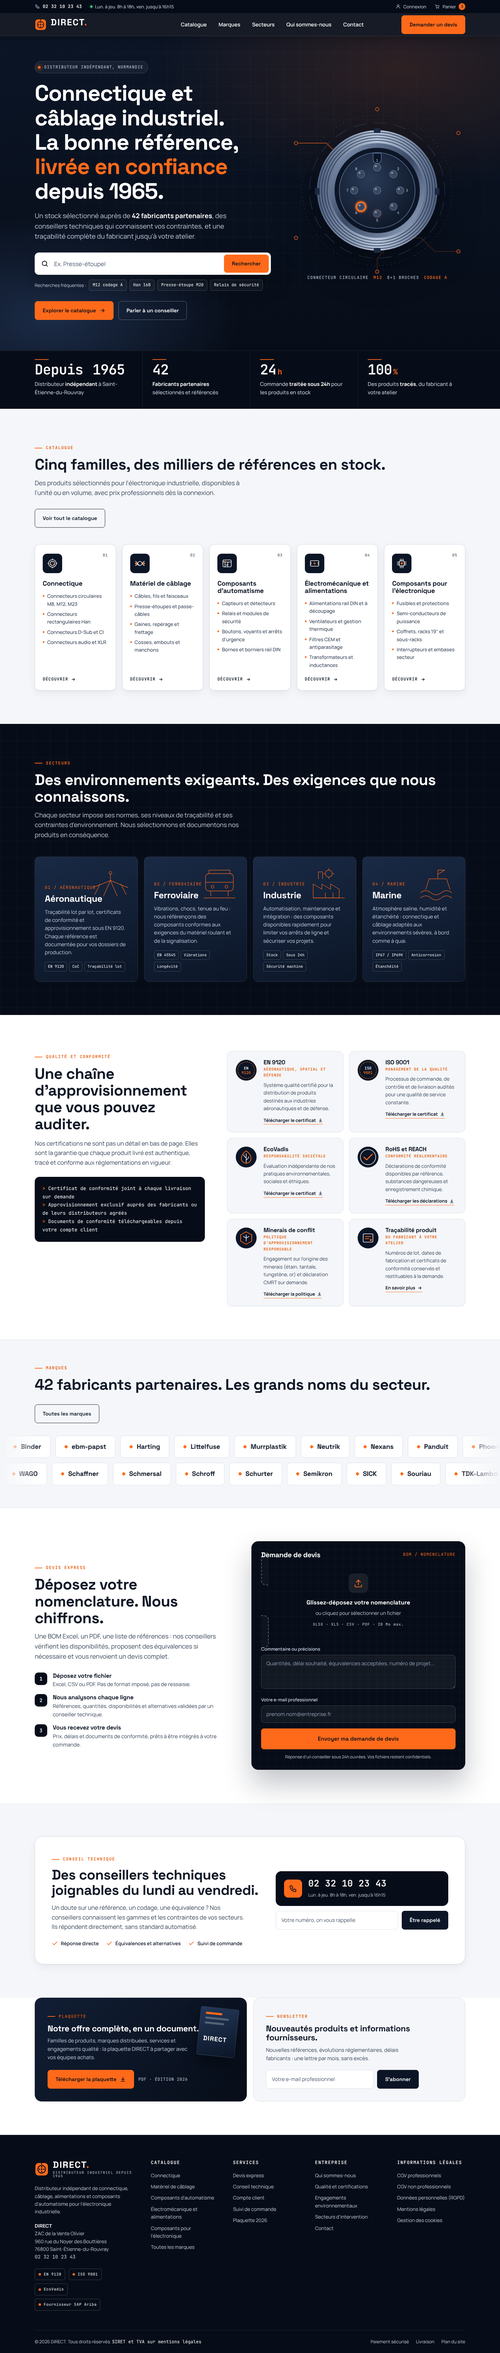
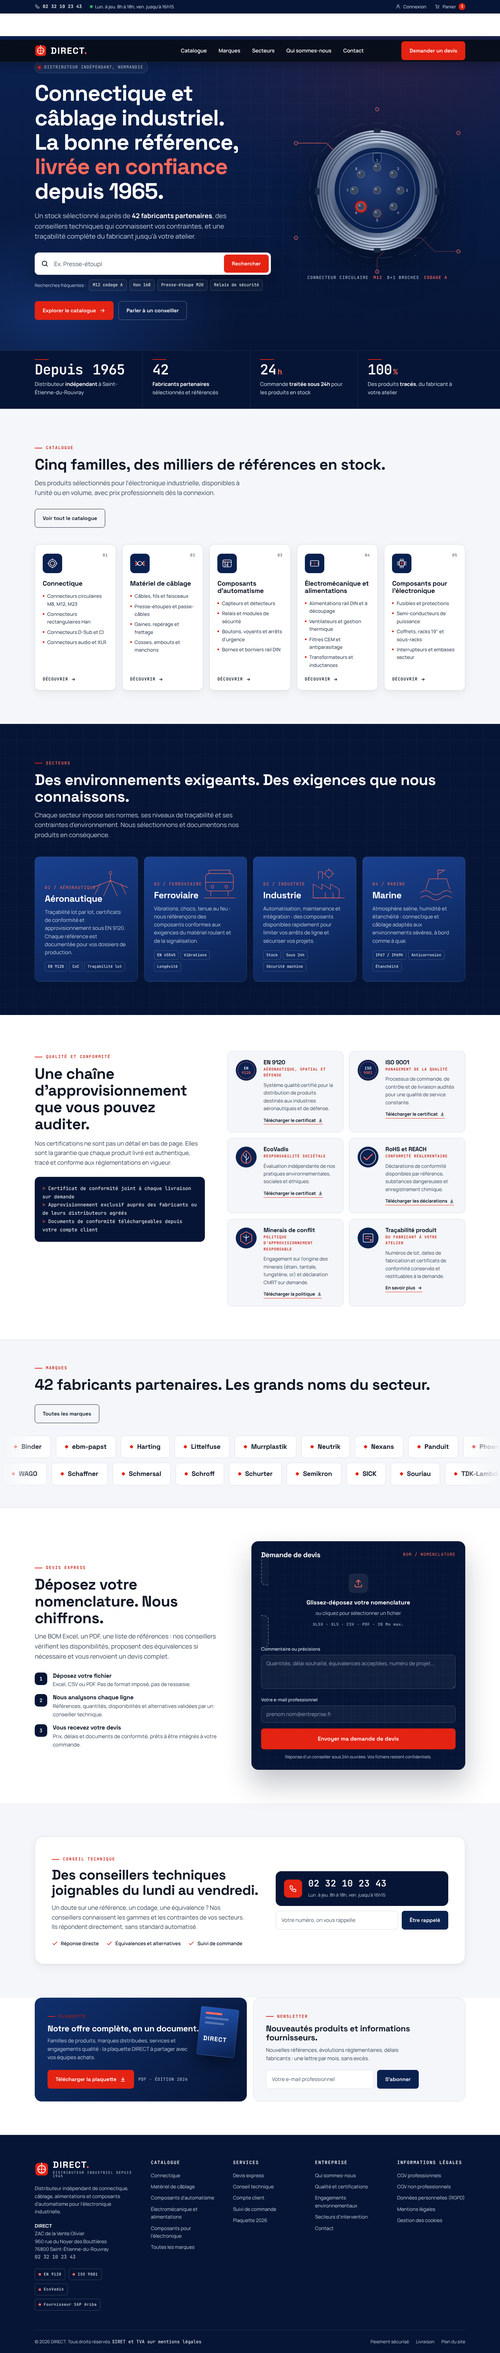
Palette alignée sur direct.fr : bleu institutionnel et rouge signal
Toutes les couleurs de marque sont regroupées dans le bloc de variables
CSS en tête de fichier, avec une variante de rouge plus claire pour les
textes sur fond sombre. Logo et sceaux SVG mis à jour.

Claude-Session: https://claude.ai/code/session_01CTckKYquxrzJf31rkvauVz

diff --git a/index.html b/index.html
@@ -14,15 +14,18 @@
 <style>
 /* =========================================================
    1. DESIGN TOKENS
-   Univers "industrie de précision" : bleu nuit + accent orange signal.
+   Univers "industrie de précision", palette alignée sur direct.fr :
+   bleu institutionnel profond + rouge signal pour les CTA.
+   Pour caler les codes exacts de la charte, modifier uniquement ce bloc.
    Tous les textes respectent un contraste AA minimum (aucun gris pâle).
    ========================================================= */
 :root {
-  --navy-950: #070D18;
-  --navy-900: #0B1526;
-  --navy-800: #111E34;
-  --navy-700: #1A2A45;
-  --navy-600: #24385A;
+  /* Bleus de marque (du plus sombre au plus clair) */
+  --navy-950: #061535;
+  --navy-900: #0A2150;
+  --navy-800: #10306E;
+  --navy-700: #1A4190;
+  --navy-600: #2457B8;
   --line-dark: rgba(255,255,255,0.10);
 
   --paper: #F4F6F9;
@@ -34,10 +37,13 @@
   --on-dark: #FFFFFF;      /* texte principal sur fond sombre */
   --on-dark-2: #C7D2E2;    /* texte secondaire sur fond sombre, contraste 11:1 */
 
-  --accent: #FF6A1A;       /* orange signal */
-  --accent-strong: #E85600;
-  --accent-soft: rgba(255,106,26,0.14);
-  --accent-glow: rgba(255,106,26,0.45);
+  /* Rouge signal : fonds de boutons et détails */
+  --accent: #E42313;
+  --accent-strong: #C41A0C;       /* rouge en texte sur fond clair (contraste 6.6:1) */
+  --accent-text-dark: #FF6A5C;    /* rouge en texte ou trait fin sur fond sombre (contraste 6:1) */
+  --accent-soft: rgba(228,35,19,0.12);
+  --accent-glow: rgba(228,35,19,0.42);
+  --on-accent: #FFFFFF;           /* texte sur fond rouge */
 
   --font-display: "Space Grotesk", "Manrope", system-ui, sans-serif;
   --font-body: "Manrope", system-ui, -apple-system, sans-serif;
@@ -85,7 +91,7 @@ svg { display: block; }
   color: var(--accent-strong);
 }
 .eyebrow::before { content: ""; width: 22px; height: 2px; background: var(--accent); }
-.on-dark .eyebrow { color: var(--accent); }
+.on-dark .eyebrow { color: var(--accent-text-dark); }
 
 .section-title { font-size: clamp(30px, 4vw, 44px); font-weight: 700; margin-top: 14px; }
 .section-lead { font-size: 18px; color: var(--ink-2); margin-top: 14px; max-width: 640px; }
@@ -102,8 +108,8 @@ svg { display: block; }
   white-space: nowrap;
 }
 .btn:active { transform: translateY(1px) scale(.99); }
-.btn-primary { background: var(--accent); color: var(--navy-950); border-color: var(--accent); }
-.btn-primary:hover { background: #FF7D38; box-shadow: 0 10px 28px var(--accent-glow); transform: translateY(-2px); }
+.btn-primary { background: var(--accent); color: var(--on-accent); border-color: var(--accent); }
+.btn-primary:hover { background: #F0311F; box-shadow: 0 10px 28px var(--accent-glow); transform: translateY(-2px); }
 .btn-outline-dark { background: transparent; color: var(--white); border-color: rgba(255,255,255,0.35); }
 .btn-outline-dark:hover { border-color: var(--white); background: rgba(255,255,255,0.08); transform: translateY(-2px); }
 .btn-outline { background: transparent; color: var(--ink); border-color: var(--ink); }
@@ -136,7 +142,7 @@ svg { display: block; }
 .topbar a:hover { color: var(--white); }
 .topbar .phone { font-family: var(--font-mono); font-weight: 600; color: var(--white); letter-spacing: .02em; }
 .topbar .dot { width: 6px; height: 6px; border-radius: 50%; background: #3DDC84; box-shadow: 0 0 0 3px rgba(61,220,132,0.2); }
-.topbar .cart-count { font-family: var(--font-mono); font-size: 11px; background: var(--accent); color: var(--navy-950); border-radius: 999px; padding: 1px 6px; font-weight: 600; }
+.topbar .cart-count { font-family: var(--font-mono); font-size: 11px; background: var(--accent); color: var(--on-accent); border-radius: 999px; padding: 1px 6px; font-weight: 600; }
 .topbar svg { width: 15px; height: 15px; stroke: currentColor; fill: none; stroke-width: 1.8; stroke-linecap: round; stroke-linejoin: round; }
 
 /* =========================================================
@@ -159,7 +165,7 @@ svg { display: block; }
 .header.is-compact .logo-mark { width: 34px; height: 34px; }
 .logo-text { display: flex; flex-direction: column; line-height: 1; }
 .logo-word { font-family: var(--font-display); font-weight: 700; font-size: 26px; letter-spacing: 0.08em; }
-.logo-word span { color: var(--accent); }
+.logo-word span { color: var(--accent-text-dark); }
 .logo-tag { font-family: var(--font-mono); font-size: 10px; letter-spacing: .16em; text-transform: uppercase; color: var(--on-dark-2); margin-top: 5px; transition: opacity .2s, height .3s; }
 .header.is-compact .logo-tag { opacity: 0; height: 0; margin: 0; overflow: hidden; }
 
@@ -191,8 +197,8 @@ svg { display: block; }
    ========================================================= */
 .hero {
   position: relative; overflow: hidden;
-  background: radial-gradient(1200px 600px at 80% 10%, rgba(255,106,26,0.14), transparent 60%),
-              radial-gradient(900px 500px at 10% 90%, rgba(36,56,90,0.7), transparent 60%),
+  background: radial-gradient(1200px 600px at 80% 10%, rgba(228,35,19,0.12), transparent 60%),
+              radial-gradient(900px 500px at 10% 90%, rgba(36,87,184,0.38), transparent 60%),
               linear-gradient(180deg, var(--navy-900) 0%, var(--navy-950) 100%);
   color: var(--on-dark);
   min-height: calc(100vh - 122px);
@@ -211,10 +217,10 @@ svg { display: block; }
 .hero .container { position: relative; display: grid; grid-template-columns: 1.15fr .85fr; gap: 48px; align-items: center; padding: 72px 0 88px; }
 .hero-kicker { display: inline-flex; align-items: center; gap: 10px; padding: 7px 12px 7px 8px; border-radius: 999px; border: 1px solid rgba(255,255,255,0.18); background: rgba(255,255,255,0.05); font-family: var(--font-mono); font-size: 12px; letter-spacing: .08em; text-transform: uppercase; color: var(--on-dark-2); }
 .hero-kicker .pulse { width: 8px; height: 8px; border-radius: 50%; background: var(--accent); box-shadow: 0 0 0 0 var(--accent-glow); animation: pulse 2s infinite; }
-@keyframes pulse { 0% { box-shadow: 0 0 0 0 var(--accent-glow); } 70% { box-shadow: 0 0 0 10px rgba(255,106,26,0); } 100% { box-shadow: 0 0 0 0 rgba(255,106,26,0); } }
+@keyframes pulse { 0% { box-shadow: 0 0 0 0 var(--accent-glow); } 70% { box-shadow: 0 0 0 10px rgba(228,35,19,0); } 100% { box-shadow: 0 0 0 0 rgba(228,35,19,0); } }
 
 .hero h1 { font-size: clamp(36px, 5.2vw, 64px); font-weight: 700; margin-top: 22px; letter-spacing: -0.025em; }
-.hero h1 .accent { color: var(--accent); }
+.hero h1 .accent { color: var(--accent-text-dark); }
 .hero-sub { font-size: 19px; color: var(--on-dark-2); max-width: 580px; margin-top: 22px; line-height: 1.55; }
 .hero-sub strong { color: var(--white); font-weight: 700; }
 
@@ -233,7 +239,7 @@ svg { display: block; }
 .search-box button { padding: 13px 22px; }
 .search-hints { display: flex; flex-wrap: wrap; align-items: center; gap: 8px; margin-top: 14px; font-size: 13px; color: var(--on-dark-2); }
 .search-hints .chip { font-family: var(--font-mono); font-size: 12px; padding: 5px 10px; border: 1px solid rgba(255,255,255,0.2); border-radius: 6px; color: var(--white); background: rgba(255,255,255,0.04); transition: border-color .2s, background .2s; }
-.search-hints .chip:hover { border-color: var(--accent); background: var(--accent-soft); }
+.search-hints .chip:hover { border-color: var(--accent-text-dark); background: rgba(228,35,19,0.18); }
 
 .hero-ctas { display: flex; gap: 14px; margin-top: 30px; flex-wrap: wrap; }
 
@@ -245,7 +251,7 @@ svg { display: block; }
   font-family: var(--font-mono); font-size: 12px; letter-spacing: .1em; text-transform: uppercase; color: var(--on-dark-2);
   display: flex; gap: 14px; white-space: nowrap;
 }
-.hero-visual .caption b { color: var(--accent); font-weight: 600; }
+.hero-visual .caption b { color: var(--accent-text-dark); font-weight: 600; }
 
 /* Broches qui s'allument successivement */
 .pin { fill: #39475E; stroke: #6B7A94; stroke-width: 1.2; transition: fill .3s; }
@@ -263,12 +269,12 @@ svg { display: block; }
 .pin-glow[data-i="9"] { animation-delay: 1.75s; animation-duration: 8s; }
 
 /* Tracés de circuit qui se dessinent */
-.trace { fill: none; stroke: var(--accent); stroke-width: 1.6; stroke-linecap: round; stroke-linejoin: round; stroke-dasharray: 600; stroke-dashoffset: 600; animation: draw 6s var(--ease) infinite; opacity: .9; }
+.trace { fill: none; stroke: var(--accent-text-dark); stroke-width: 1.6; stroke-linecap: round; stroke-linejoin: round; stroke-dasharray: 600; stroke-dashoffset: 600; animation: draw 6s var(--ease) infinite; opacity: .9; }
 .trace[data-d="2"] { animation-delay: 1s; }
 .trace[data-d="3"] { animation-delay: 2s; }
 .trace[data-d="4"] { animation-delay: 3s; }
 @keyframes draw { 0% { stroke-dashoffset: 600; opacity: 0; } 15% { opacity: .9; } 55% { stroke-dashoffset: 0; opacity: .9; } 85% { stroke-dashoffset: 0; opacity: 0; } 100% { stroke-dashoffset: 600; opacity: 0; } }
-.trace-pad { fill: var(--navy-900); stroke: var(--accent); stroke-width: 1.5; }
+.trace-pad { fill: var(--navy-900); stroke: var(--accent-text-dark); stroke-width: 1.5; }
 .ring-rotate { transform-origin: 260px 260px; animation: spin 40s linear infinite; }
 @keyframes spin { to { transform: rotate(360deg); } }
 
@@ -280,7 +286,7 @@ svg { display: block; }
 .stat { padding: 34px 28px; border-left: 1px solid var(--line-dark); position: relative; }
 .stat:first-child { border-left: 0; padding-left: 0; }
 .stat-value { font-family: var(--font-mono); font-size: 40px; font-weight: 600; letter-spacing: -0.02em; color: var(--white); line-height: 1; display: flex; align-items: baseline; gap: 4px; }
-.stat-value .unit { font-size: 22px; color: var(--accent); font-weight: 600; }
+.stat-value .unit { font-size: 22px; color: var(--accent-text-dark); font-weight: 600; }
 .stat-label { font-size: 15px; color: var(--on-dark-2); margin-top: 10px; font-weight: 500; }
 .stat-label strong { color: var(--white); }
 .stat::after { content: ""; position: absolute; left: 28px; top: 24px; width: 0; height: 2px; background: var(--accent); transition: width 1.2s var(--ease) .2s; }
@@ -318,8 +324,8 @@ svg { display: block; }
 .family-icon svg { width: 32px; height: 32px; stroke: var(--white); fill: none; stroke-width: 1.6; stroke-linecap: round; stroke-linejoin: round; }
 .family-icon svg .fill { fill: var(--accent); stroke: none; }
 .family-card:hover .family-icon { background: var(--accent); transform: rotate(-4deg) scale(1.04); }
-.family-card:hover .family-icon svg { stroke: var(--navy-950); }
-.family-card:hover .family-icon svg .fill { fill: var(--navy-950); }
+.family-card:hover .family-icon svg { stroke: var(--white); }
+.family-card:hover .family-icon svg .fill { fill: var(--white); }
 .family-card h3 { font-size: 19px; margin-top: 20px; }
 .family-card ul { margin-top: 14px; display: flex; flex-direction: column; gap: 7px; flex: 1; }
 .family-card li { font-size: 14px; color: var(--ink-2); font-weight: 500; display: flex; gap: 8px; align-items: flex-start; }
@@ -342,11 +348,11 @@ svg { display: block; }
   border: 1px solid rgba(255,255,255,0.1); display: flex; flex-direction: column; justify-content: flex-end;
   transition: transform .4s var(--ease), border-color .4s, box-shadow .4s var(--ease);
 }
-.sector:hover { transform: translateY(-6px); border-color: rgba(255,106,26,0.6); box-shadow: 0 30px 60px rgba(0,0,0,0.4); }
+.sector:hover { transform: translateY(-6px); border-color: rgba(255,106,92,0.7); box-shadow: 0 30px 60px rgba(0,0,0,0.4); }
 .sector-art { position: absolute; top: 18px; right: 18px; width: 120px; height: 120px; opacity: .9; transition: transform .5s var(--ease); }
 .sector:hover .sector-art { transform: scale(1.08) rotate(-3deg); }
-.sector-art svg { width: 100%; height: 100%; stroke: var(--accent); fill: none; stroke-width: 1.4; stroke-linecap: round; stroke-linejoin: round; }
-.sector-num { font-family: var(--font-mono); font-size: 12px; color: var(--accent); letter-spacing: .12em; }
+.sector-art svg { width: 100%; height: 100%; stroke: var(--accent-text-dark); fill: none; stroke-width: 1.4; stroke-linecap: round; stroke-linejoin: round; }
+.sector-num { font-family: var(--font-mono); font-size: 12px; color: var(--accent-text-dark); letter-spacing: .12em; }
 .sector h3 { font-size: 26px; margin-top: 8px; }
 .sector p { color: var(--on-dark-2); font-size: 15px; margin-top: 12px; line-height: 1.55; }
 .sector-tags { display: flex; flex-wrap: wrap; gap: 6px; margin-top: 16px; }
@@ -361,7 +367,7 @@ svg { display: block; }
 .quality-layout { display: grid; grid-template-columns: 1fr 1.4fr; gap: 64px; align-items: start; margin-top: 8px; }
 .quality-intro p { font-size: 17px; color: var(--ink-2); margin-top: 18px; }
 .quality-intro .big { font-family: var(--font-mono); margin-top: 28px; padding: 22px; border-radius: var(--radius); background: var(--navy-950); color: var(--white); font-size: 14px; line-height: 1.7; }
-.quality-intro .big b { color: var(--accent); font-weight: 600; }
+.quality-intro .big b { color: var(--accent-text-dark); font-weight: 600; }
 .badge-grid { display: grid; grid-template-columns: repeat(2, 1fr); gap: 16px; }
 .badge {
   display: flex; gap: 18px; align-items: flex-start; padding: 22px; border-radius: var(--radius);
@@ -414,14 +420,14 @@ svg { display: block; }
 .quote-form > * { position: relative; }
 .quote-form-head { display: flex; justify-content: space-between; align-items: center; margin-bottom: 18px; }
 .quote-form-head h3 { font-size: 20px; }
-.quote-form-head .mono { font-size: 12px; color: var(--accent); letter-spacing: .1em; }
+.quote-form-head .mono { font-size: 12px; color: var(--accent-text-dark); letter-spacing: .1em; }
 .dropzone {
   border: 2px dashed rgba(255,255,255,0.3); border-radius: 14px; padding: 34px 20px; text-align: center;
   background: rgba(255,255,255,0.03); transition: border-color .25s, background .25s, transform .25s var(--ease); cursor: pointer;
 }
-.dropzone:hover, .dropzone.is-over { border-color: var(--accent); background: var(--accent-soft); transform: scale(1.01); }
+.dropzone:hover, .dropzone.is-over { border-color: var(--accent-text-dark); background: rgba(228,35,19,0.16); transform: scale(1.01); }
 .dropzone-icon { width: 56px; height: 56px; margin: 0 auto 14px; border-radius: 14px; background: rgba(255,255,255,0.08); display: grid; place-items: center; }
-.dropzone-icon svg { width: 28px; height: 28px; stroke: var(--accent); fill: none; stroke-width: 1.8; stroke-linecap: round; stroke-linejoin: round; }
+.dropzone-icon svg { width: 28px; height: 28px; stroke: var(--accent-text-dark); fill: none; stroke-width: 1.8; stroke-linecap: round; stroke-linejoin: round; }
 .dropzone strong { display: block; font-family: var(--font-display); font-size: 17px; }
 .dropzone span { display: block; font-size: 14px; color: var(--on-dark-2); margin-top: 6px; }
 .dropzone .formats { font-family: var(--font-mono); font-size: 11px; letter-spacing: .08em; color: var(--on-dark-2); margin-top: 12px; }
@@ -437,7 +443,7 @@ svg { display: block; }
   color: var(--white); padding: 12px 14px; font-size: 15px; outline: 0; transition: border-color .2s, box-shadow .2s; resize: vertical;
 }
 .field textarea::placeholder, .field input::placeholder { color: #94A3B8; opacity: 1; }
-.field textarea:focus, .field input:focus { border-color: var(--accent); box-shadow: 0 0 0 3px var(--accent-soft); }
+.field textarea:focus, .field input:focus { border-color: var(--accent-text-dark); box-shadow: 0 0 0 3px var(--accent-soft); }
 .quote-form .btn { width: 100%; margin-top: 16px; padding: 16px; font-size: 16px; }
 .quote-form .note { font-size: 12px; color: var(--on-dark-2); text-align: center; margin-top: 12px; }
 
@@ -452,7 +458,7 @@ svg { display: block; }
 .phone-big { display: flex; align-items: center; gap: 18px; padding: 22px 24px; border-radius: 16px; background: var(--navy-950); color: var(--white); transition: transform .3s var(--ease), box-shadow .3s var(--ease); }
 .phone-big:hover { transform: translateY(-3px); box-shadow: 0 20px 40px rgba(11,21,38,0.3); }
 .phone-big .ico { width: 52px; height: 52px; border-radius: 12px; background: var(--accent); display: grid; place-items: center; flex: none; }
-.phone-big .ico svg { width: 24px; height: 24px; stroke: var(--navy-950); fill: none; stroke-width: 2; stroke-linecap: round; stroke-linejoin: round; }
+.phone-big .ico svg { width: 24px; height: 24px; stroke: var(--white); fill: none; stroke-width: 2; stroke-linecap: round; stroke-linejoin: round; }
 .phone-big .num { font-family: var(--font-mono); font-size: 26px; font-weight: 600; letter-spacing: .02em; line-height: 1; }
 .phone-big .hrs { font-size: 13px; color: var(--on-dark-2); margin-top: 6px; }
 .callback { display: flex; gap: 10px; }
@@ -479,7 +485,7 @@ svg { display: block; }
 .doc-card .version { font-family: var(--font-mono); font-size: 12px; color: var(--on-dark-2); letter-spacing: .06em; }
 .brochure-art { position: absolute; right: 28px; top: 28px; width: 110px; height: 140px; border-radius: 6px; background: linear-gradient(160deg, var(--navy-600), var(--navy-900)); border: 1px solid rgba(255,255,255,0.15); transform: rotate(6deg); box-shadow: 0 20px 40px rgba(0,0,0,0.4); padding: 14px; }
 .brochure-art .l { height: 6px; border-radius: 3px; background: rgba(255,255,255,0.25); margin-bottom: 8px; }
-.brochure-art .l.a { width: 60%; background: var(--accent); }
+.brochure-art .l.a { width: 60%; background: var(--accent-text-dark); }
 .brochure-art .l.b { width: 85%; }
 .brochure-art .l.c { width: 70%; }
 .brochure-art .w { font-family: var(--font-display); font-weight: 700; font-size: 18px; letter-spacing: .08em; color: var(--white); margin-top: 28px; }
@@ -496,13 +502,13 @@ svg { display: block; }
 .footer h4 { font-size: 13px; letter-spacing: .12em; text-transform: uppercase; color: var(--white); font-family: var(--font-mono); font-weight: 600; margin-bottom: 18px; }
 .footer ul { display: grid; gap: 10px; }
 .footer a { transition: color .2s; }
-.footer a:hover { color: var(--accent); }
+.footer a:hover { color: var(--accent-text-dark); }
 .footer-brand p { margin-top: 18px; max-width: 320px; line-height: 1.6; }
 .footer-brand address { font-style: normal; margin-top: 18px; line-height: 1.6; }
 .footer-brand address strong { color: var(--white); }
 .footer-badges { display: flex; gap: 10px; margin-top: 22px; flex-wrap: wrap; }
 .footer-badges span { display: inline-flex; align-items: center; gap: 8px; font-family: var(--font-mono); font-size: 11px; letter-spacing: .06em; padding: 7px 10px; border: 1px solid rgba(255,255,255,0.22); border-radius: 6px; color: var(--white); }
-.footer-badges span i { width: 7px; height: 7px; border-radius: 50%; background: var(--accent); }
+.footer-badges span i { width: 7px; height: 7px; border-radius: 50%; background: var(--accent-text-dark); }
 .footer-bottom { margin-top: 56px; border-top: 1px solid var(--line-dark); padding: 22px 0; display: flex; justify-content: space-between; gap: 16px; flex-wrap: wrap; font-size: 13px; }
 .footer-bottom ul { display: flex; gap: 20px; flex-wrap: wrap; }
 .footer-bottom .mono { color: var(--white); }
@@ -619,14 +625,14 @@ svg { display: block; }
     <a class="logo" href="#" aria-label="DIRECT, accueil">
       <!-- Logo recréé : connecteur stylisé + wordmark -->
       <svg class="logo-mark" viewBox="0 0 40 40" aria-hidden="true">
-        <rect x="2" y="2" width="36" height="36" rx="9" fill="#FF6A1A"/>
-        <circle cx="20" cy="20" r="11" fill="none" stroke="#070D18" stroke-width="2.4"/>
-        <circle cx="20" cy="13.5" r="1.9" fill="#070D18"/>
-        <circle cx="26.5" cy="20" r="1.9" fill="#070D18"/>
-        <circle cx="20" cy="26.5" r="1.9" fill="#070D18"/>
-        <circle cx="13.5" cy="20" r="1.9" fill="#070D18"/>
-        <circle cx="20" cy="20" r="2.4" fill="#070D18"/>
-        <path d="M20 2v4" stroke="#070D18" stroke-width="2.4" stroke-linecap="round"/>
+        <rect x="2" y="2" width="36" height="36" rx="9" fill="#E42313"/>
+        <circle cx="20" cy="20" r="11" fill="none" stroke="#FFFFFF" stroke-width="2.4"/>
+        <circle cx="20" cy="13.5" r="1.9" fill="#FFFFFF"/>
+        <circle cx="26.5" cy="20" r="1.9" fill="#FFFFFF"/>
+        <circle cx="20" cy="26.5" r="1.9" fill="#FFFFFF"/>
+        <circle cx="13.5" cy="20" r="1.9" fill="#FFFFFF"/>
+        <circle cx="20" cy="20" r="2.4" fill="#FFFFFF"/>
+        <path d="M20 2v4" stroke="#FFFFFF" stroke-width="2.4" stroke-linecap="round"/>
       </svg>
       <span class="logo-text">
         <span class="logo-word">DIRECT<span>.</span></span>
@@ -707,8 +713,8 @@ svg { display: block; }
             <feMerge><feMergeNode in="b"/><feMergeNode in="SourceGraphic"/></feMerge>
           </filter>
           <radialGradient id="body" cx="40%" cy="35%" r="70%">
-            <stop offset="0%" stop-color="#2A3B58"/>
-            <stop offset="100%" stop-color="#0E1828"/>
+            <stop offset="0%" stop-color="#24407A"/>
+            <stop offset="100%" stop-color="#0A1E48"/>
           </radialGradient>
           <linearGradient id="ring" x1="0" y1="0" x2="1" y2="1">
             <stop offset="0%" stop-color="#8A9BB8"/>
@@ -758,11 +764,11 @@ svg { display: block; }
         </g>
         <!-- Bague -->
         <circle cx="260" cy="260" r="140" fill="url(#ring)"/>
-        <circle cx="260" cy="260" r="126" fill="#0B1526"/>
+        <circle cx="260" cy="260" r="126" fill="#0A2150"/>
         <!-- Face isolante -->
         <circle cx="260" cy="260" r="112" fill="url(#body)" stroke="#55678A" stroke-width="2"/>
         <!-- Détrompeur (codage A) -->
-        <path d="M248 150 h24 v18 a12 12 0 0 1 -24 0z" fill="#0B1526" stroke="#55678A" stroke-width="2"/>
+        <path d="M248 150 h24 v18 a12 12 0 0 1 -24 0z" fill="#0A2150" stroke="#55678A" stroke-width="2"/>
 
         <!-- Broches : 8 en couronne + 1 au centre -->
         <g>
@@ -987,7 +993,7 @@ svg { display: block; }
       <div class="badge-grid">
         <div class="badge reveal">
           <div class="badge-seal">
-            <svg viewBox="0 0 64 64"><circle cx="32" cy="32" r="30" fill="#0B1526"/><circle cx="32" cy="32" r="24" fill="none" stroke="#FF6A1A" stroke-width="1.5" stroke-dasharray="3 3"/><text x="32" y="30" text-anchor="middle" font-family="JetBrains Mono, monospace" font-size="11" font-weight="600" fill="#fff">EN</text><text x="32" y="43" text-anchor="middle" font-family="JetBrains Mono, monospace" font-size="11" font-weight="600" fill="#FF6A1A">9120</text></svg>
+            <svg viewBox="0 0 64 64"><circle cx="32" cy="32" r="30" fill="#0A2150"/><circle cx="32" cy="32" r="24" fill="none" stroke="#FF6A5C" stroke-width="1.5" stroke-dasharray="3 3"/><text x="32" y="30" text-anchor="middle" font-family="JetBrains Mono, monospace" font-size="11" font-weight="600" fill="#fff">EN</text><text x="32" y="43" text-anchor="middle" font-family="JetBrains Mono, monospace" font-size="11" font-weight="600" fill="#FF6A5C">9120</text></svg>
           </div>
           <div>
             <h3>EN 9120</h3>
@@ -998,7 +1004,7 @@ svg { display: block; }
         </div>
         <div class="badge reveal" data-delay="1">
           <div class="badge-seal">
-            <svg viewBox="0 0 64 64"><circle cx="32" cy="32" r="30" fill="#0B1526"/><circle cx="32" cy="32" r="24" fill="none" stroke="#FF6A1A" stroke-width="1.5" stroke-dasharray="3 3"/><text x="32" y="30" text-anchor="middle" font-family="JetBrains Mono, monospace" font-size="11" font-weight="600" fill="#fff">ISO</text><text x="32" y="43" text-anchor="middle" font-family="JetBrains Mono, monospace" font-size="11" font-weight="600" fill="#FF6A1A">9001</text></svg>
+            <svg viewBox="0 0 64 64"><circle cx="32" cy="32" r="30" fill="#0A2150"/><circle cx="32" cy="32" r="24" fill="none" stroke="#FF6A5C" stroke-width="1.5" stroke-dasharray="3 3"/><text x="32" y="30" text-anchor="middle" font-family="JetBrains Mono, monospace" font-size="11" font-weight="600" fill="#fff">ISO</text><text x="32" y="43" text-anchor="middle" font-family="JetBrains Mono, monospace" font-size="11" font-weight="600" fill="#FF6A5C">9001</text></svg>
           </div>
           <div>
             <h3>ISO 9001</h3>
@@ -1009,7 +1015,7 @@ svg { display: block; }
         </div>
         <div class="badge reveal" data-delay="2">
           <div class="badge-seal">
-            <svg viewBox="0 0 64 64"><circle cx="32" cy="32" r="30" fill="#0B1526"/><path d="M32 14c8 6 14 14 14 22a14 14 0 0 1-28 0c0-8 6-16 14-22z" fill="none" stroke="#FF6A1A" stroke-width="2"/><path d="M32 22v26M32 34c-4-2-7-5-7-9M32 40c4-2 7-5 7-9" stroke="#fff" stroke-width="1.6" fill="none" stroke-linecap="round"/></svg>
+            <svg viewBox="0 0 64 64"><circle cx="32" cy="32" r="30" fill="#0A2150"/><path d="M32 14c8 6 14 14 14 22a14 14 0 0 1-28 0c0-8 6-16 14-22z" fill="none" stroke="#FF6A5C" stroke-width="2"/><path d="M32 22v26M32 34c-4-2-7-5-7-9M32 40c4-2 7-5 7-9" stroke="#fff" stroke-width="1.6" fill="none" stroke-linecap="round"/></svg>
           </div>
           <div>
             <h3>EcoVadis</h3>
@@ -1020,7 +1026,7 @@ svg { display: block; }
         </div>
         <div class="badge reveal" data-delay="3">
           <div class="badge-seal">
-            <svg viewBox="0 0 64 64"><circle cx="32" cy="32" r="30" fill="#0B1526"/><path d="M20 32l8 8 16-16" fill="none" stroke="#FF6A1A" stroke-width="3" stroke-linecap="round" stroke-linejoin="round"/><circle cx="32" cy="32" r="22" fill="none" stroke="#fff" stroke-width="1.5"/></svg>
+            <svg viewBox="0 0 64 64"><circle cx="32" cy="32" r="30" fill="#0A2150"/><path d="M20 32l8 8 16-16" fill="none" stroke="#FF6A5C" stroke-width="3" stroke-linecap="round" stroke-linejoin="round"/><circle cx="32" cy="32" r="22" fill="none" stroke="#fff" stroke-width="1.5"/></svg>
           </div>
           <div>
             <h3>RoHS et REACH</h3>
@@ -1031,7 +1037,7 @@ svg { display: block; }
         </div>
         <div class="badge reveal" data-delay="4">
           <div class="badge-seal">
-            <svg viewBox="0 0 64 64"><circle cx="32" cy="32" r="30" fill="#0B1526"/><path d="M32 14l16 9v18l-16 9-16-9V23z" fill="none" stroke="#FF6A1A" stroke-width="2" stroke-linejoin="round"/><path d="M32 23v18M24 27.5l8 4.5 8-4.5" fill="none" stroke="#fff" stroke-width="1.6" stroke-linecap="round"/></svg>
+            <svg viewBox="0 0 64 64"><circle cx="32" cy="32" r="30" fill="#0A2150"/><path d="M32 14l16 9v18l-16 9-16-9V23z" fill="none" stroke="#FF6A5C" stroke-width="2" stroke-linejoin="round"/><path d="M32 23v18M24 27.5l8 4.5 8-4.5" fill="none" stroke="#fff" stroke-width="1.6" stroke-linecap="round"/></svg>
           </div>
           <div>
             <h3>Minerais de conflit</h3>
@@ -1042,7 +1048,7 @@ svg { display: block; }
         </div>
         <div class="badge reveal" data-delay="4">
           <div class="badge-seal">
-            <svg viewBox="0 0 64 64"><circle cx="32" cy="32" r="30" fill="#0B1526"/><rect x="18" y="20" width="28" height="24" rx="3" fill="none" stroke="#fff" stroke-width="1.6"/><path d="M24 28h16M24 34h10" stroke="#FF6A1A" stroke-width="2" stroke-linecap="round"/><circle cx="40" cy="38" r="3" fill="#FF6A1A"/></svg>
+            <svg viewBox="0 0 64 64"><circle cx="32" cy="32" r="30" fill="#0A2150"/><rect x="18" y="20" width="28" height="24" rx="3" fill="none" stroke="#fff" stroke-width="1.6"/><path d="M24 28h16M24 34h10" stroke="#FF6A5C" stroke-width="2" stroke-linecap="round"/><circle cx="40" cy="38" r="3" fill="#FF6A5C"/></svg>
           </div>
           <div>
             <h3>Traçabilité produit</h3>
@@ -1214,10 +1220,10 @@ svg { display: block; }
       <div class="footer-brand">
         <a class="logo" href="#" aria-label="DIRECT, accueil">
           <svg class="logo-mark" viewBox="0 0 40 40" aria-hidden="true">
-            <rect x="2" y="2" width="36" height="36" rx="9" fill="#FF6A1A"/>
-            <circle cx="20" cy="20" r="11" fill="none" stroke="#070D18" stroke-width="2.4"/>
-            <circle cx="20" cy="13.5" r="1.9" fill="#070D18"/><circle cx="26.5" cy="20" r="1.9" fill="#070D18"/><circle cx="20" cy="26.5" r="1.9" fill="#070D18"/><circle cx="13.5" cy="20" r="1.9" fill="#070D18"/><circle cx="20" cy="20" r="2.4" fill="#070D18"/>
-            <path d="M20 2v4" stroke="#070D18" stroke-width="2.4" stroke-linecap="round"/>
+            <rect x="2" y="2" width="36" height="36" rx="9" fill="#E42313"/>
+            <circle cx="20" cy="20" r="11" fill="none" stroke="#FFFFFF" stroke-width="2.4"/>
+            <circle cx="20" cy="13.5" r="1.9" fill="#FFFFFF"/><circle cx="26.5" cy="20" r="1.9" fill="#FFFFFF"/><circle cx="20" cy="26.5" r="1.9" fill="#FFFFFF"/><circle cx="13.5" cy="20" r="1.9" fill="#FFFFFF"/><circle cx="20" cy="20" r="2.4" fill="#FFFFFF"/>
+            <path d="M20 2v4" stroke="#FFFFFF" stroke-width="2.4" stroke-linecap="round"/>
           </svg>
           <span class="logo-text"><span class="logo-word">DIRECT<span>.</span></span><span class="logo-tag">Distributeur industriel depuis 1965</span></span>
         </a>
